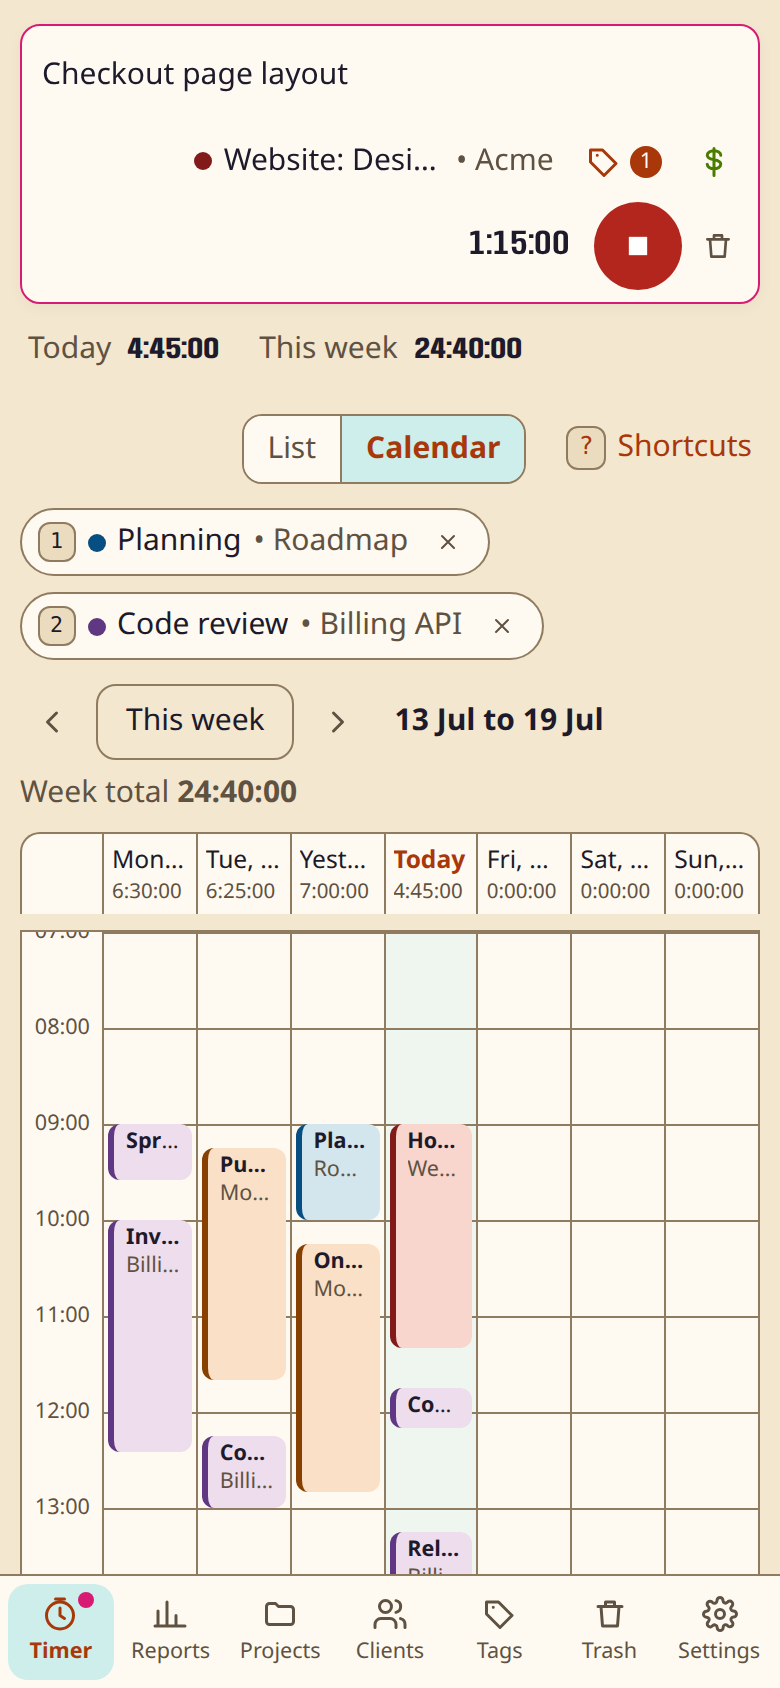
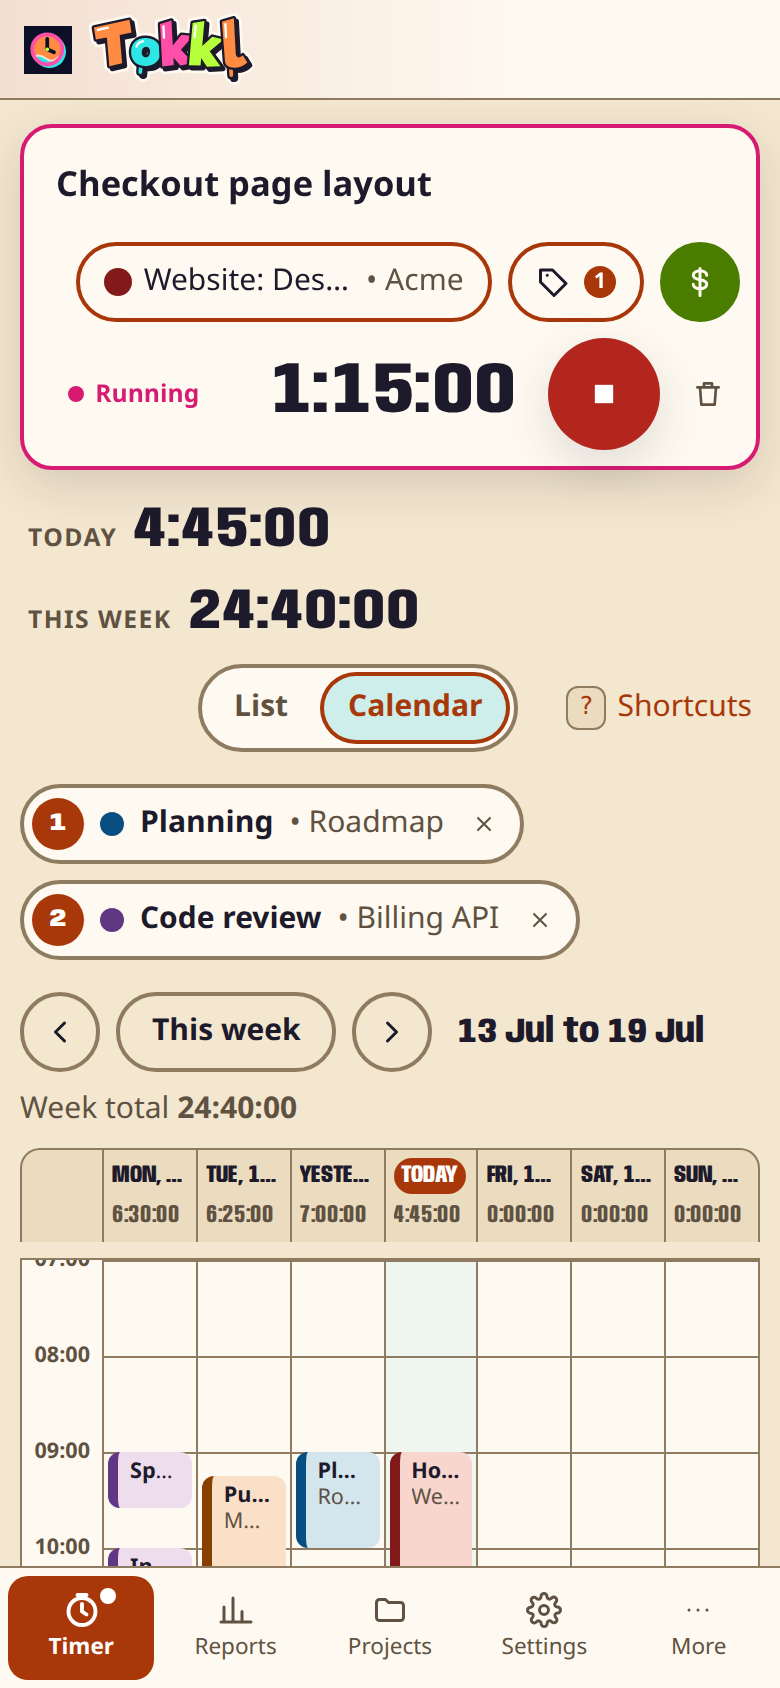
feat(web): draw a graffiti Tokkl wordmark (TT-0114)
The brand now shows a hand-drawn SVG wordmark beside the app icon in the
sidebar, the phone header strip, the auth page and the splash. The letters
are neon fills inside an ink outline and shadow, wrapped in a halo that is
cream in light and lavender in dark. Colours come from new --wordmark-*
tokens, and the contrast table records the outline, halo and fill pairs.
The SVG is role="img" with the name "Tokkl".

docs/brand/tokkl-wordmark.svg is the same drawing with light colours for
the README header. The README screenshots are regenerated, and the
typography spec checks the wordmark is drawn in paths rather than set in
the display face.

diff --git a/packages/web/src/styles.css b/packages/web/src/styles.css
@@ -72,6 +72,15 @@
    text on scene-swell                   text   10.00 AA     9.61 AA
    text on scene-stripe                  text   11.31 AA    13.82 AA
    text on scene overlap (worst case)    text    8.28 AA     8.32 AA
+   wordmark-outline on wordmark-halo     other  16.39 AA     8.83 AA
+   wordmark-outline on bg, surface,      other   8.28 AA     1.00 --
+     texture and scene (worst)
+   wordmark-halo on bg, surface,         other   1.00 --     4.36 AA
+     texture and scene (worst)
+   wordmark-orange on wordmark-outline   other   7.37 AA     8.13 AA
+   wordmark-aqua on wordmark-outline     other  11.02 AA    12.16 AA
+   wordmark-pink on wordmark-outline     other   5.62 AA     6.21 AA
+   wordmark-lime on wordmark-outline     other  14.08 AA    15.54 AA
    The chart pair also passes the dataviz palette check (lightness band, chroma, colour-blind
    separation) on the surface colour in each theme.
    A non-billable chart segment is 3px chart-other stripes over chart-other-wash. The stripes draw
@@ -120,16 +129,22 @@
    The sidebar and the phone header strip are drawn with gradients of the texture tokens over
    surface. The glow fills the top 40% of the sidebar and the swell with its stripes the bottom 30%,
    so the two never overlap; within each band every pixel lies between surface and the strongest
-   token, and the texture rows above give the worst case for the nav labels (muted) and the
-   wordmark (text). The sidebar's edge line is border on bg on the page side. The active nav link
-   is a primary block with on-primary text and icon, and its running dot turns on-primary too:
+   token, and the texture rows above give the worst case for the nav labels (muted). The sidebar's
+   edge line is border on bg on the page side. The active nav link is a primary block with on-primary text and icon, and its running dot turns on-primary too:
    the pink dot on primary is only 1.33:1.
-   The auth page and the splash use the scene tokens over bg, full-bleed. Only the wordmark (text)
-   sits on that texture; the form, the loading label and the errors sit on surface cards, so the
-   surface rows apply to them. Where the scene gradients overlap, every channel stays between the
-   lowest (light) or highest (dark) channel of the three scene tokens, and text against that
-   extreme is the "overlap (worst case)" row. Error messages carry a warning icon in danger next
-   to the danger text (danger on surface, bg), so the colour is not the only sign.
+   The auth page and the splash use the scene tokens over bg, full-bleed. Only the wordmark sits on
+   that texture; the form, the loading label and the errors sit on surface cards, so the surface
+   rows apply to them. Where the scene gradients overlap, every channel stays between the lowest
+   (light) or highest (dark) channel of the three scene tokens; a colour against that extreme is
+   the "overlap (worst case)" row and the worst case of the wordmark's scene rows. Error messages
+   carry a warning icon in danger next to the danger text (danger on surface, bg), so the colour is
+   not the only sign.
+   The wordmark sits on bg (phone header strip), surface and the sidebar texture, and the scene.
+   Each letter is a neon fill inside a wordmark-outline line and shadow, wrapped in a
+   wordmark-halo. In light the outline draws the letter edge (worst on the darkest scene overlap)
+   and the cream halo is a sticker border that needs no ratio (--). In dark the navy outline
+   matches bg, so the lavender halo draws the edge (worst on the lightest scene overlap) and the
+   outline separates it from the fills. The white shines sit inside the fills and need no ratio.
    The manage pages (Projects, Clients, Tags, Trash, Settings). A table's header band is text on
    surface-2, and a hovered row is row-hover, which is chart-band like report-zebra, so the zebra
    rows above give its text, muted, primary and border pairs; an over-estimate label on a hovered
@@ -207,6 +222,16 @@
   --scene-swell: light-dark(#b9cbbb, #134354);
   --scene-stripe: light-dark(#e9ceb3, #2d212a);
   --chart-tooltip-text: var(--text);
+  /* The drawn wordmark (Wordmark.tsx). The neon fills stay the same in both themes and sit on the
+     outline; the halo around the letters is cream in light and lavender in dark, where it draws the
+     edge against the navy. See the wordmark note in the table. */
+  --wordmark-outline: light-dark(#1c1a2b, #0b1026);
+  --wordmark-halo: light-dark(#fffaf1, #a9b0d6);
+  --wordmark-orange: #ff8c42;
+  --wordmark-aqua: #2ee6e6;
+  --wordmark-pink: #ff4fa8;
+  --wordmark-lime: #b6ff3b;
+  --wordmark-shine: #ffffff;
 
   /* Type. The root size is relative, so the browser's font size setting scales the whole app. */
   --font-body: system-ui, -apple-system, 'Segoe UI', Roboto, sans-serif;
@@ -285,8 +310,8 @@ input:focus-visible, select:focus-visible, textarea:focus-visible, button:focus-
 }
 input[type='checkbox'] { accent-color: var(--primary); width: 16px; height: 16px; padding: 0; }
 a { color: var(--primary); }
-/* Display face: wordmark, headings (including empty-state headlines), the running clock and totals. */
-h1, h2, h3, .brand, .timer-clock, .timer-summary strong, .day-total, .manual-duration, .empty-state-title,
+/* Display face: headings (including empty-state headlines), the running clock and totals. */
+h1, h2, h3, .timer-clock, .timer-summary strong, .day-total, .manual-duration, .empty-state-title,
 .calendar-range, .calendar-day-head, .calendar-block-duration {
   font-family: var(--font-display); font-stretch: 85%;
 }
@@ -436,11 +461,19 @@ input.entry-duration:is(:hover, :focus) {
     linear-gradient(to top, var(--texture-swell) 60%, transparent) bottom / 100% 30% no-repeat,
     var(--surface);
 }
-/* The wordmark: the icon and the name in the display face. */
-.brand { display: inline-flex; align-items: center; gap: 10px; color: var(--text); font-size: var(--text-lg); font-weight: 900; line-height: 1; }
-.brand img { flex: none; }
-.brand-md { font-size: var(--text-xl); }
-.brand-sm { gap: 8px; font-size: var(--text-lg); }
+/* The brand: the icon beside the drawn wordmark (Wordmark.tsx). Stroke widths are in viewBox units,
+   so they scale with the drawing. */
+.brand { display: inline-flex; align-items: center; gap: 10px; line-height: 1; }
+.brand img, .brand .wordmark { flex: none; }
+.brand-sm { gap: 8px; }
+.wordmark-halo { fill: var(--wordmark-halo); stroke: var(--wordmark-halo); stroke-width: 22; stroke-linejoin: round; }
+.wordmark-shadow { fill: var(--wordmark-outline); stroke: var(--wordmark-outline); stroke-width: 10; stroke-linejoin: round; }
+.wordmark-letter { stroke: var(--wordmark-outline); stroke-width: 10; stroke-linejoin: round; paint-order: stroke; }
+.wordmark-orange { fill: var(--wordmark-orange); }
+.wordmark-aqua { fill: var(--wordmark-aqua); }
+.wordmark-pink { fill: var(--wordmark-pink); }
+.wordmark-lime { fill: var(--wordmark-lime); }
+.wordmark-letter .wordmark-shine { fill: none; stroke: var(--wordmark-shine); stroke-width: 5; stroke-linecap: round; }
 .sidebar .brand { padding: 6px 10px 20px; }
 .nav-link { gap: 10px; padding: 9px 10px; border-radius: var(--radius-md); color: var(--muted); text-decoration: none; }
 .nav-link:hover:not(.active) { color: var(--text); }
@@ -869,7 +902,7 @@ table.table { width: 100%; border-collapse: collapse; }
     repeating-linear-gradient(-45deg, transparent 0 22px, var(--scene-stripe) 22px 26px),
     var(--bg);
 }
-.brand-lg { gap: 14px; font-size: var(--text-3xl); }
+.brand-lg { gap: 14px; }
 .auth-card { width: min(400px, 100%); min-width: 0; display: flex; flex-direction: column; gap: 14px; border-radius: var(--radius-lg); padding: 28px; box-shadow: var(--shadow); }
 .auth-card h1 { margin: 0; font-size: var(--text-2xl); }
 .auth-card p { margin: 0; }

diff --git a/packages/web/src/components/Wordmark.tsx b/packages/web/src/components/Wordmark.tsx
@@ -1,0 +1,100 @@
+/**
+ * The graffiti "Tokkl" wordmark, drawn as SVG paths so it needs no font and fetches nothing.
+ *
+ * Layers, back to front: a halo around every letter and its shadow, the shadow (the letters offset
+ * down and right in the outline colour), then each letter with its outline, drips and shines. Colours
+ * come from the --wordmark-* tokens in styles.css, so the drawing follows the theme; the contrast
+ * table there has the pairs. docs/brand/tokkl-wordmark.svg is a copy of this drawing with the light
+ * colours written in, for the README. Change both together.
+ */
+
+type Letter = {
+  /** Fill class: one of the four palette colours. */
+  fill: 'orange' | 'aqua' | 'pink' | 'lime';
+  /** Each letter leans its own way. */
+  transform: string;
+  /** The letter's body; the o's counter is a second subpath, cut out by the even-odd rule. */
+  body: string;
+  /** Paint drips under the letter, drawn first so the letter covers their tops. */
+  drips?: string[];
+  /** Highlight strokes on the fill. */
+  shines: string[];
+};
+
+const LETTERS: Letter[] = [
+  {
+    fill: 'orange',
+    transform: 'rotate(-5 44 55)',
+    body: 'M4 16 L82 6 L84 34 L58 37 L58 98 L30 102 L30 40 L6 42 Z',
+    shines: ['M12 22 L34 19'],
+  },
+  {
+    fill: 'aqua',
+    transform: 'rotate(4 112 74)',
+    body:
+      'M112 42 C134 42 145 56 145 72 C145 90 131 103 112 103 C92 103 81 90 81 72 C81 54 93 42 112 42 Z ' +
+      'M113 61 C107 61 104 66 104 72 C104 79 107 84 113 84 C119 84 122 79 122 72 C122 66 119 61 113 61 Z',
+    drips: ['M100 96 L100 116 C100 122 108 122 108 116 L108 96 Z'],
+    shines: ['M92 62 C94 55 99 51 105 50'],
+  },
+  {
+    fill: 'pink',
+    transform: 'rotate(-3 178 55)',
+    body: 'M146 10 L171 4 L171 58 L191 36 L216 40 L188 68 L214 98 L185 102 L171 84 L171 100 L146 102 Z',
+    shines: ['M153 16 L153 40'],
+  },
+  {
+    fill: 'lime',
+    transform: 'rotate(5 240 58)',
+    body: 'M210 12 L235 6 L235 60 L255 38 L280 42 L252 70 L278 100 L249 104 L235 86 L235 102 L210 104 Z',
+    shines: ['M217 18 L217 42'],
+  },
+  {
+    fill: 'orange',
+    transform: 'rotate(-3 296 54)',
+    body: 'M280 6 L306 0 L306 76 C306 86 313 88 321 81 L330 97 C314 112 282 110 282 92 Z',
+    drips: ['M290 98 L290 122 C290 128 298 128 298 122 L298 98 Z'],
+    shines: ['M287 12 L287 40'],
+  },
+];
+
+const VIEW_BOX = { x: -12, y: -13, width: 363, height: 158 };
+const SHADOW_OFFSET = 'translate(6 6)';
+
+/** Every letter as a flat silhouette (body and drips), for the halo and the shadow. */
+function silhouettes() {
+  return LETTERS.map((letter, i) => (
+    <g key={i} transform={letter.transform}>
+      {letter.drips?.map((d) => <path key={d} d={d} />)}
+      <path d={letter.body} />
+    </g>
+  ));
+}
+
+export function Wordmark({ width }: { width: number }) {
+  const height = Math.round((width * VIEW_BOX.height) / VIEW_BOX.width);
+  return (
+    <svg
+      className="wordmark"
+      viewBox={`${VIEW_BOX.x} ${VIEW_BOX.y} ${VIEW_BOX.width} ${VIEW_BOX.height}`}
+      width={width}
+      height={height}
+      fillRule="evenodd"
+      role="img"
+      aria-label="Tokkl"
+    >
+      <g className="wordmark-halo">
+        {silhouettes()}
+        <g transform={SHADOW_OFFSET}>{silhouettes()}</g>
+      </g>
+      <g className="wordmark-shadow" transform={SHADOW_OFFSET}>{silhouettes()}</g>
+      {LETTERS.map((letter, i) => (
+        <g key={i} transform={letter.transform} className={`wordmark-letter wordmark-${letter.fill}`}>
+          {letter.drips?.map((d) => <path key={d} d={d} />)}
+          <path d={letter.body} />
+          {letter.shines.map((d) => <path key={d} d={d} className="wordmark-shine" />)}
+        </g>
+      ))}
+    </svg>
+  );
+}

diff --git a/e2e/typography.spec.ts b/e2e/typography.spec.ts
@@ -3,7 +3,8 @@ import { expect, test } from './fixtures.ts';
 import { login } from './helpers.ts';
 
 // TT-0068: the Anybody variable font ships with the app, is preloaded once, loads under the CSP
-// (font-src 'self') and sets the wordmark, headings, the running clock and totals.
+// (font-src 'self') and sets headings, the running clock and totals.
+// TT-0114: the wordmark is drawn as SVG paths, not set in a font, and is named "Tokkl".
 // TT-0067: the root font size is 93.75%, so 1rem is 15px.
 
 const FONT = '/fonts/anybody-wdth-wght.woff2';
@@ -56,7 +57,6 @@ test('the preloaded font is fetched once, loads under the CSP and sets the displ
   expect(fetches).toHaveLength(1);
 
   for (const target of [
-    page.locator('.brand').first(),
     page.locator('.day-header h3').first(),
     page.locator('.day-total').first(),
     timer.locator('.timer-clock'),
@@ -66,4 +66,9 @@ test('the preloaded font is fetched once, loads under the CSP and sets the displ
   await expect(timer.locator('.timer-clock')).toHaveCSS('font-variant-numeric', 'tabular-nums');
   expect(await fontFamily(timer.getByLabel('Description'))).not.toMatch(/Anybody/);
   await expect(page.locator('html')).toHaveCSS('font-size', '15px');
+
+  const wordmark = page.locator('.brand').first().getByRole('img', { name: 'Tokkl' });
+  await expect(wordmark).toBeVisible();
+  expect(await wordmark.locator('path').count()).toBeGreaterThan(0);
+  await expect(wordmark.locator('text, image, use, foreignObject')).toHaveCount(0);
 });

diff --git a/packages/web/src/components/Brand.tsx b/packages/web/src/components/Brand.tsx
@@ -1,16 +1,20 @@
+import { Wordmark } from './Wordmark.tsx';
+
 /**
- * The wordmark: the app icon beside the name in the display face. The sidebar, the phone header
- * strip and the auth page all render this one component, so the drawn wordmark (TT-0114) and the
- * rename (TT-0113) change it in one place.
+ * The brand: the app icon beside the drawn "Tokkl" wordmark. The sidebar, the phone header strip and
+ * the auth page all render this one component. The wordmark is an image named "Tokkl", so screen
+ * readers still hear the name.
  */
 const ICON_SIZE = { sm: 24, md: 30, lg: 48 } as const;
+/** The md width fits the sidebar beside the icon; sm keeps the phone header strip short. */
+const WORDMARK_WIDTH = { sm: 84, md: 130, lg: 260 } as const;
 
 export function Brand({ size = 'md' }: { size?: keyof typeof ICON_SIZE }) {
   const icon = ICON_SIZE[size];
   return (
     <span className={`brand brand-${size}`}>
       <img src="/icon.svg" alt="" width={icon} height={icon} />
-      <span className="brand-name">Tokkl</span>
+      <Wordmark width={WORDMARK_WIDTH[size]} />
     </span>
   );
 }

diff --git a/README.md b/README.md
@@ -1,4 +1,4 @@
-# Tokkl
+<h1><img src="docs/brand/tokkl-wordmark.svg" alt="Tokkl" width="320"></h1>
 
 A self-hosted, single-user time tracker modeled on Toggl Track. It runs on a server you own, keeps every entry in one SQLite file, and answers on a subset of the Toggl Track API v9 and Reports API v3. Scripts and libraries written for Toggl can switch to it by changing the base URL.
 
@@ -209,4 +209,4 @@ Every response is checked as well as timed: totals and billable totals against t
 
 ## Font
 
-Headings, the wordmark, the running clock and report totals use [Anybody](https://github.com/Etcetera-Type-Co/Anybody) by Etcetera Type Co., under the SIL Open Font License 1.1. The variable woff2 and its licence are in `web/public/fonts/` and the server ships them itself. Source: https://github.com/Etcetera-Type-Co/Anybody/blob/fe7b55cf9d1563348ad95ac8e05f43b81a420c31/fonts/variable/Anybody%5Bwdth,wght%5D.woff2, renamed to `anybody-wdth-wght.woff2` and otherwise unchanged. Body text, controls and tables use the system font stack.
+Headings, the running clock and report totals use [Anybody](https://github.com/Etcetera-Type-Co/Anybody) by Etcetera Type Co., under the SIL Open Font License 1.1. The variable woff2 and its licence are in `web/public/fonts/` and the server ships them itself. Source: https://github.com/Etcetera-Type-Co/Anybody/blob/fe7b55cf9d1563348ad95ac8e05f43b81a420c31/fonts/variable/Anybody%5Bwdth,wght%5D.woff2, renamed to `anybody-wdth-wght.woff2` and otherwise unchanged. Body text, controls and tables use the system font stack.
